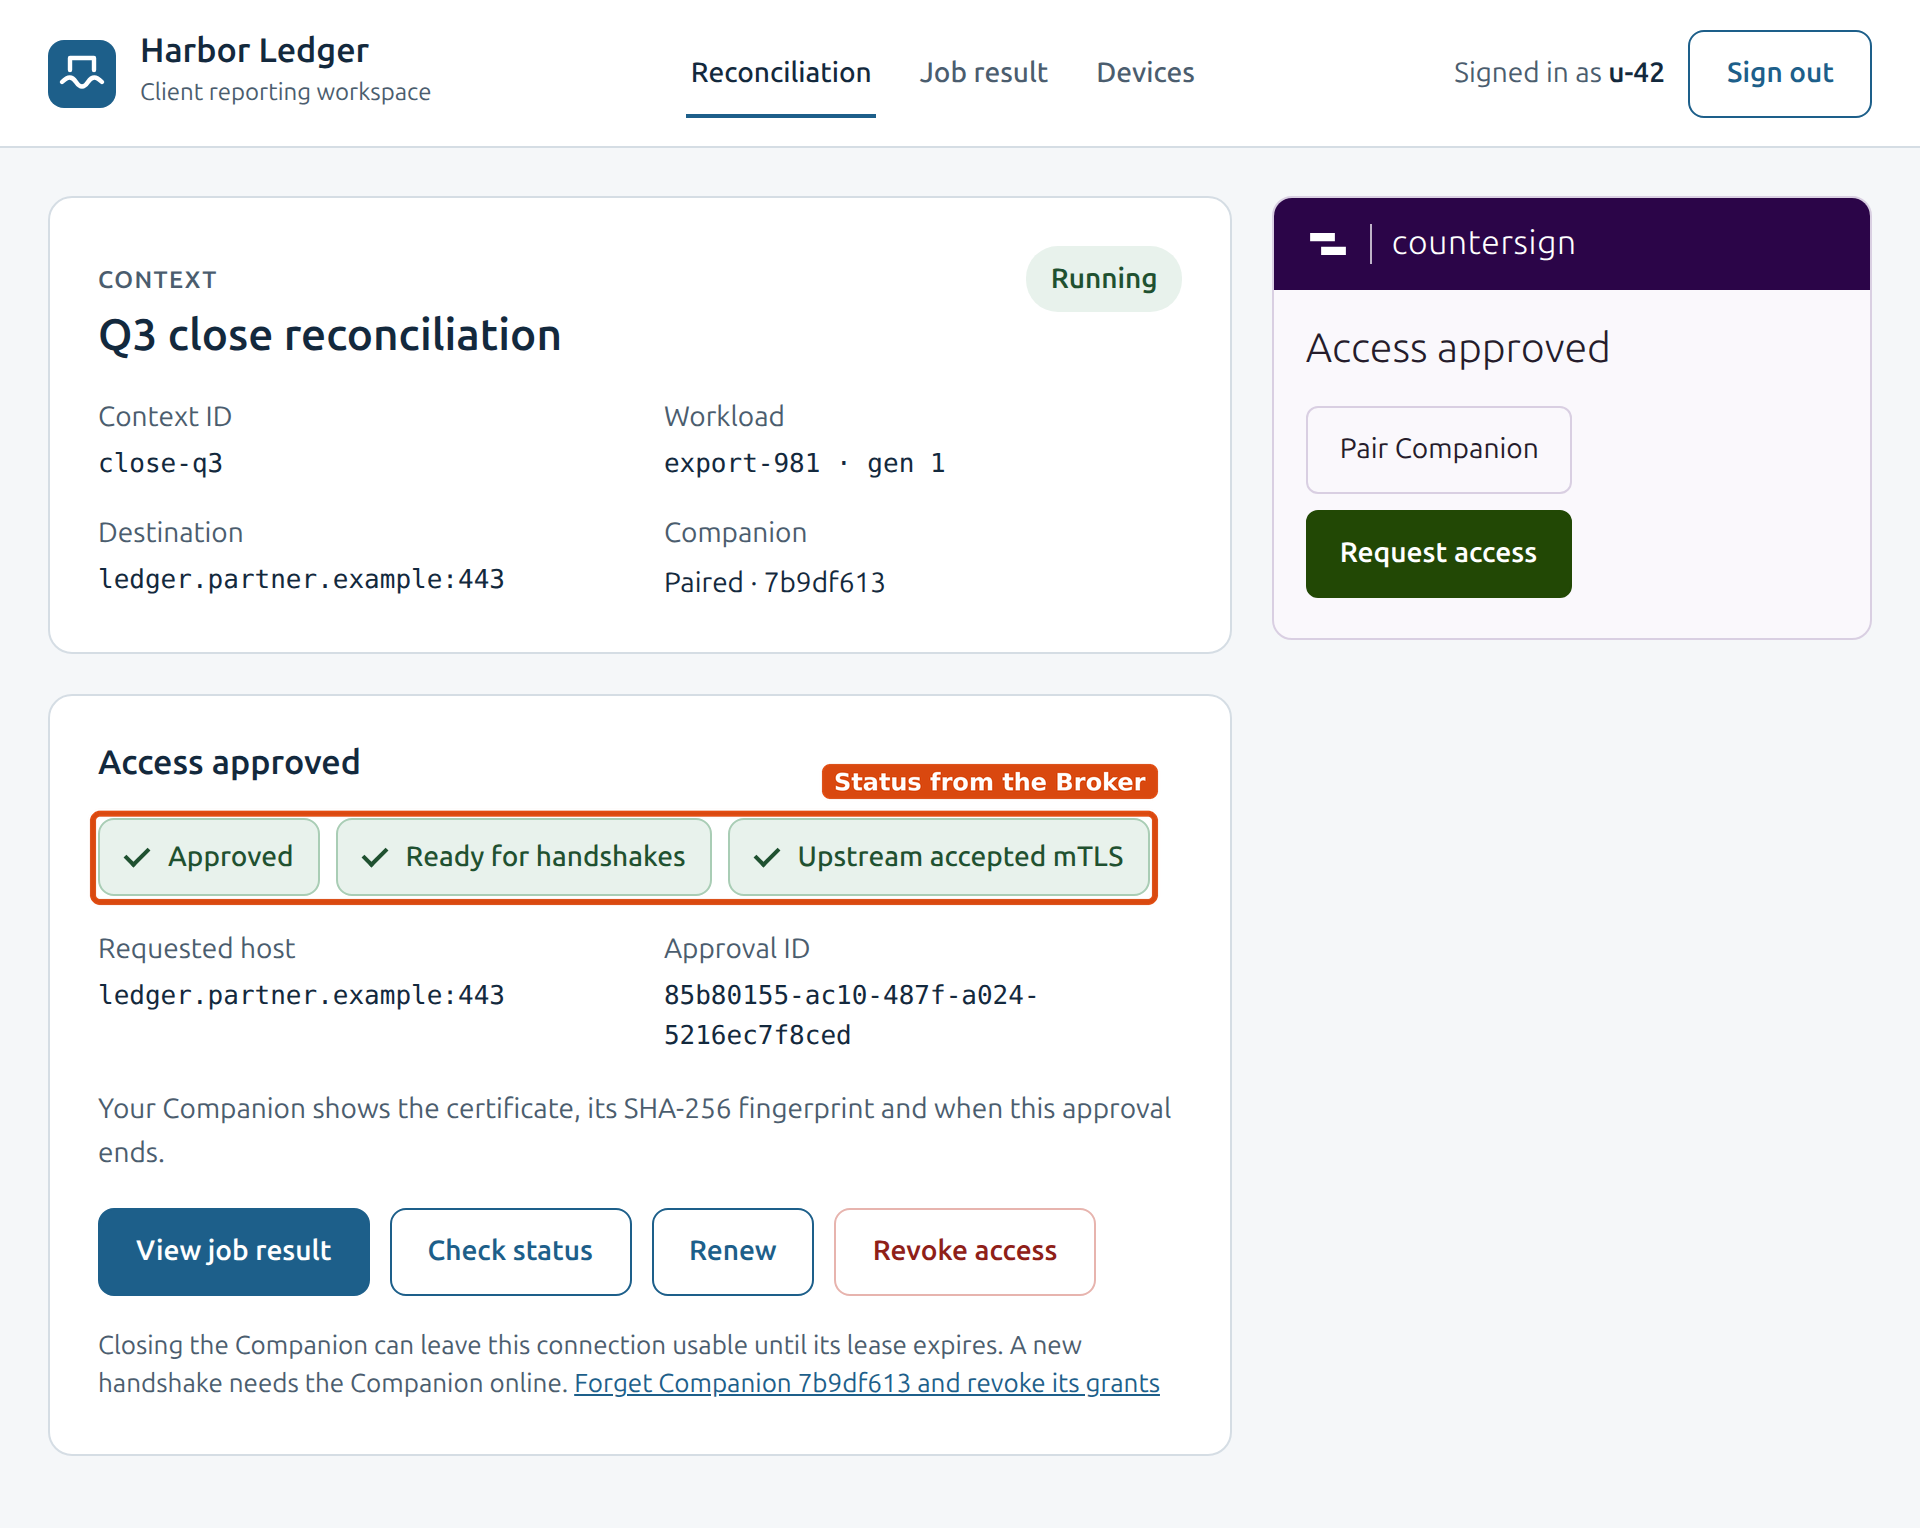
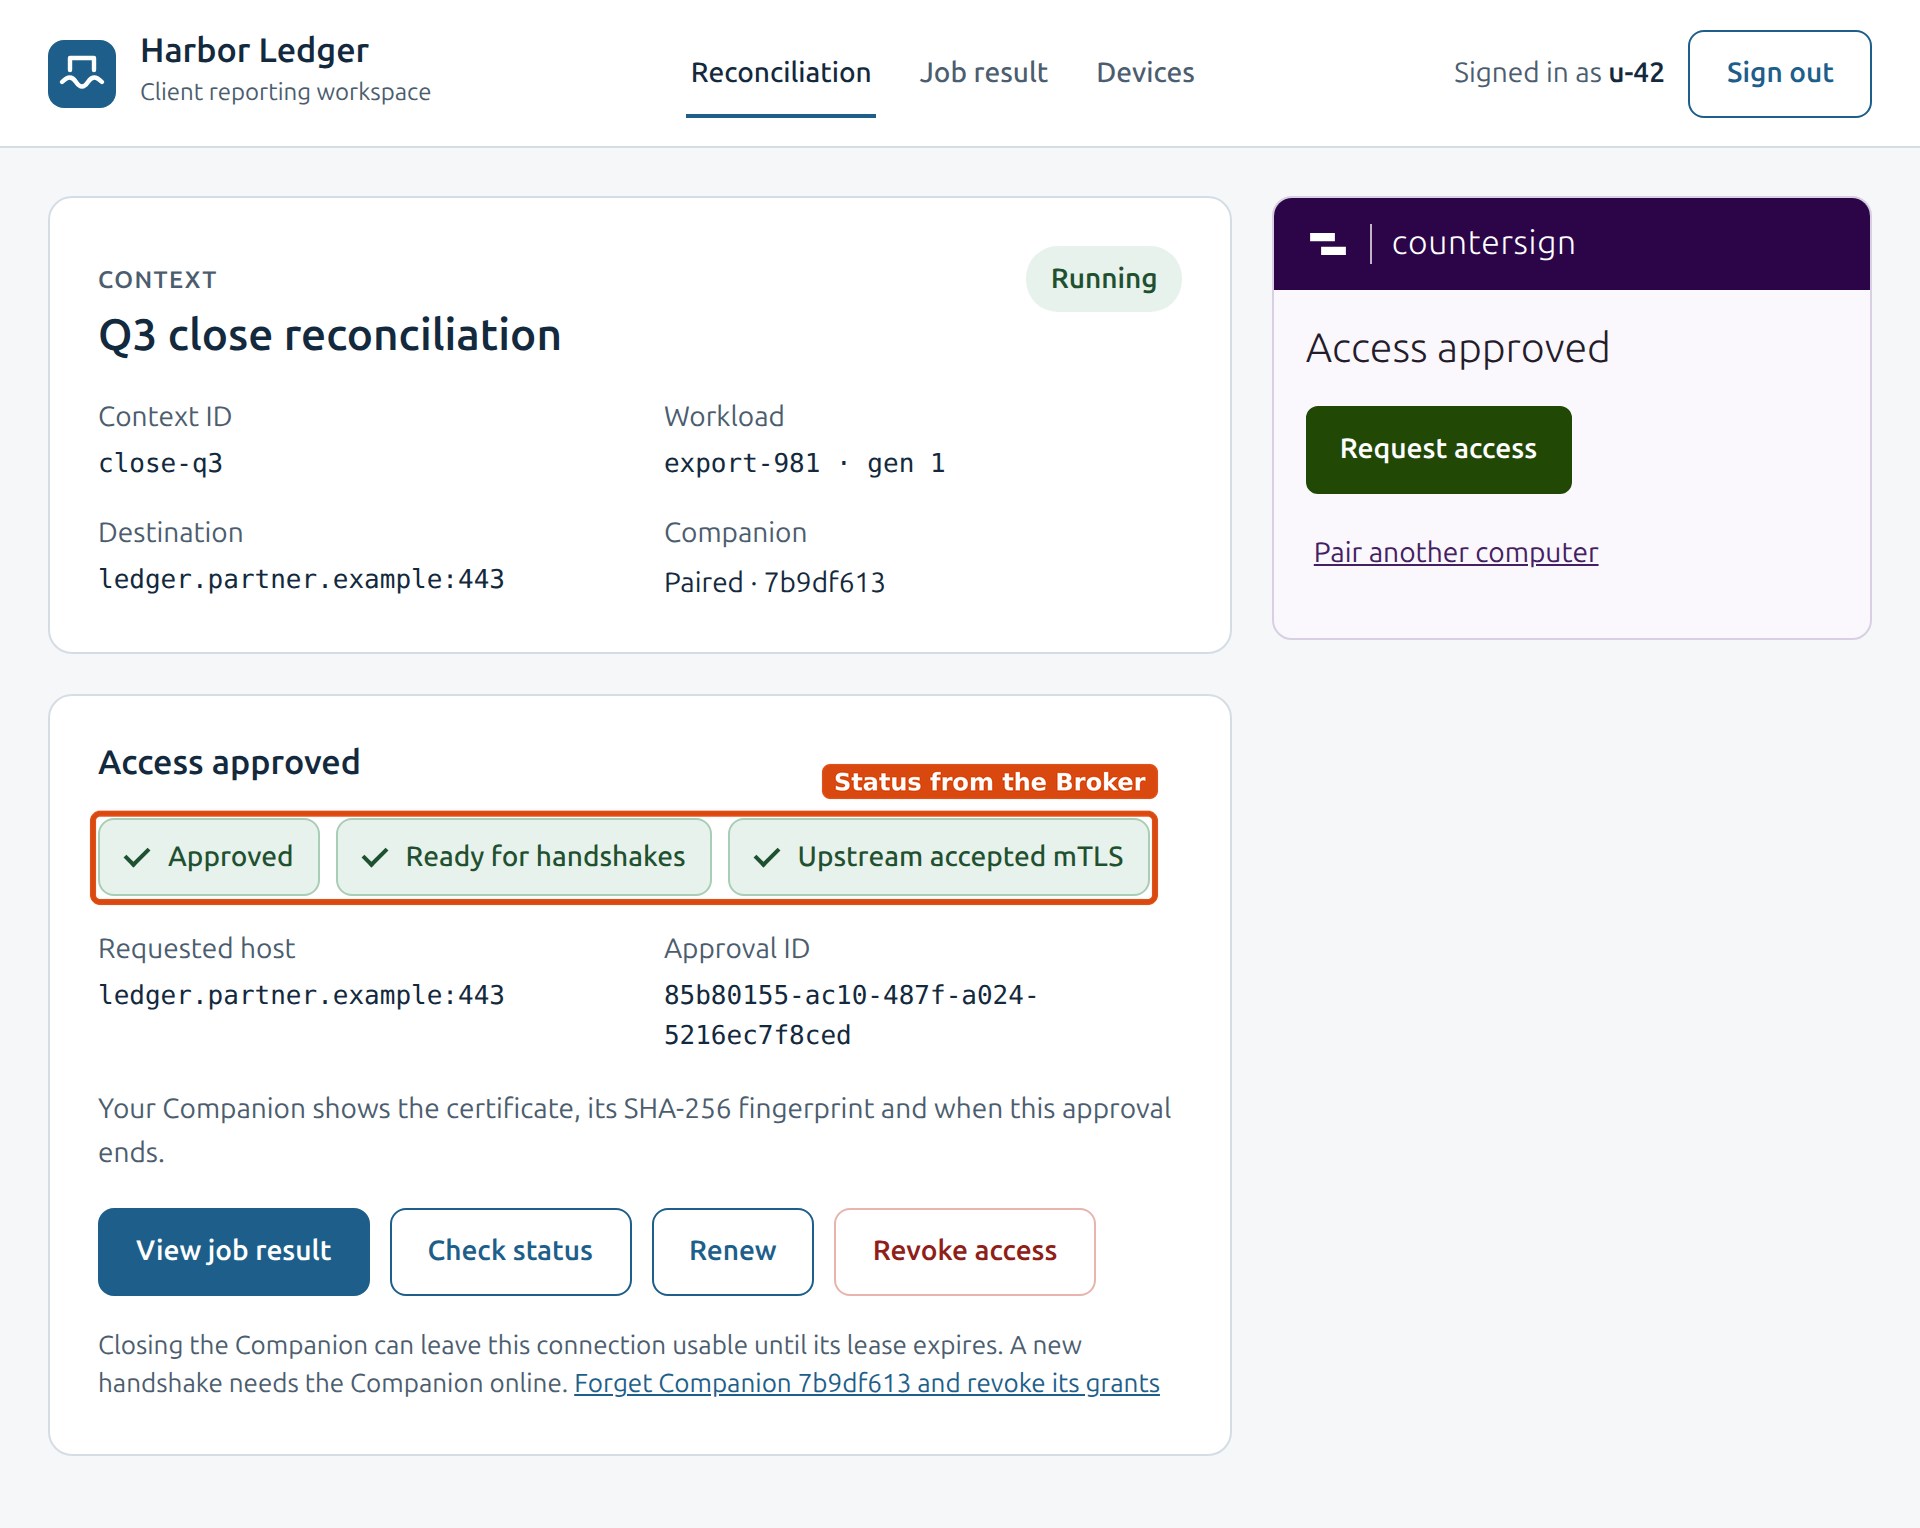
Offer "Pair another computer" once the account is paired
The same account can pair several computers with one Integrator, so a
paired widget keeps pairing available but demotes it to a secondary
link (part `link`) after Request access. Update the widget docs, test
and the screenshots that show a paired widget.

Changed region(s): [[0.6562, 0.2461, 0.8438, 0.3999]]

diff --git a/packages/widget/src/widget.js b/packages/widget/src/widget.js
@@ -33,6 +33,7 @@ const STYLE = `
     background: var(--_surface); color: var(--_ink); cursor: pointer; }
   button[part~=primary] { background: var(--_primary); border-color: var(--_primary); color: var(--_primary-ink); font-weight: 600; }
   button:disabled { cursor: default; opacity: .55; }
+  button[part~=link] { order: 1; min-height: 44px; padding: 0 4px; border: 0; background: none; color: var(--_link); text-decoration: underline; }
   a { display: inline-flex; align-items: center; min-height: 44px; padding: 0 4px; color: var(--_link); }
   button:focus-visible, a:focus-visible { outline: 3px solid var(--_link); outline-offset: 2px; }
   [part=status] { margin: 0; font-size: .9375em; line-height: 1.45; color: var(--_muted); }
@@ -94,7 +95,8 @@ export class CountersignWidget extends HTMLElement {
     this.#renderControls();
   }
 
-  // `paired` moves the primary emphasis from Pair Companion to Request access.
+  // `paired` moves the primary emphasis from Pair Companion to Request access
+  // and turns pairing into a secondary "Pair another computer" link.
   attributeChangedCallback() {
     this.#renderControls();
   }
@@ -139,10 +141,13 @@ export class CountersignWidget extends HTMLElement {
   }
 
   #renderControls() {
-    const primary = this.hasAttribute('paired') ? 'connect' : 'pair';
+    const paired = this.hasAttribute('paired');
+    const primary = paired ? 'connect' : 'pair';
     for (const button of this.shadowRoot.querySelectorAll('button')) {
       const action = button.dataset.action;
-      button.setAttribute('part', 'button ' + action + (action === primary ? ' primary' : ''));
+      const style = action === primary ? ' primary' : action === 'pair' ? ' link' : '';
+      button.setAttribute('part', 'button ' + action + style);
+      if (action === 'pair') button.textContent = paired ? 'Pair another computer' : 'Pair Companion';
       button.disabled = !this.#adapter || this.#busy;
       if (button.dataset.action === 'push') {
         button.hidden = typeof this.#adapter?.subscribe !== 'function';

diff --git a/packages/widget/test/widget.test.js b/packages/widget/test/widget.test.js
@@ -64,11 +64,14 @@ test('default card exposes stylable parts and keeps the original ones', () => {
 test('a paired account moves the primary emphasis to Request access', () => {
   const el = widget(async () => id);
   const part = action => el.shadowRoot.querySelector(`[data-action=${action}]`).getAttribute('part');
+  const pair = el.shadowRoot.querySelector('[data-action=pair]');
   el.setAttribute('paired', '');
-  assert.equal(part('pair'), 'button pair');
+  assert.equal(part('pair'), 'button pair link');
+  assert.equal(pair.textContent, 'Pair another computer');
   assert.equal(part('connect'), 'button connect primary');
   el.removeAttribute('paired');
   assert.equal(part('pair'), 'button pair primary');
+  assert.equal(pair.textContent, 'Pair Companion');
   el.remove();
 });
 

diff --git a/scripts/annotate_screenshots.py b/scripts/annotate_screenshots.py
@@ -66,7 +66,7 @@ CALLOUTS: dict[str, tuple[str, list[tuple[str, ...]]]] = {
         ("progress", "Status from the Broker", "above-end"),
     ]),
     "access-ended.png": ("access-ended.png", [
-        ("again", "Starts a fresh approval", "below-end"),
+        ("again", "Starts a fresh approval", "right"),
     ]),
     "job-result.png": ("job-result.png", [
         ("match", "Same SHA-256 as the approval", "right"),

diff --git a/docs/reference/widget.md b/docs/reference/widget.md
@@ -92,7 +92,7 @@ On logout, remove the subscription through the authenticated backend while the a
 
 ## Style the web controls
 
-By default the widget draws a Countersign card: a purple band with the Countersign mark, a headline, the buttons and a status line. The emphasized button is **Pair Companion** until you add the `paired` attribute, then **Request access**. The stylesheet is a constructed stylesheet in the shadow root, so it also applies under a strict `style-src` Content Security Policy. Its colours follow the page's `color-scheme`: a page that declares `color-scheme: light dark` gets the dark palette in dark mode, and a page that declares nothing stays light.
+By default the widget draws a Countersign card: a purple band with the Countersign mark, a headline, the buttons and a status line. The emphasized button is **Pair Companion** until you add the `paired` attribute, then **Request access**, with pairing offered as a **Pair another computer** link. The stylesheet is a constructed stylesheet in the shadow root, so it also applies under a strict `style-src` Content Security Policy. Its colours follow the page's `color-scheme`: a page that declares `color-scheme: light dark` gets the dark palette in dark mode, and a page that declares nothing stays light.
 
 ```html
 <countersign-widget paired>
@@ -102,7 +102,7 @@ By default the widget draws a Countersign card: a purple band with the Countersi
 
 | Hook | Use |
 | --- | --- |
-| `paired` attribute | Set it when the signed-in account already has a paired Companion. It moves the primary emphasis to **Request access**. |
+| `paired` attribute | Set it when the signed-in account already has a paired Companion. It moves the primary emphasis to **Request access** and turns **Pair Companion** into a secondary **Pair another computer** link, since the same account can pair more than one computer. |
 | `headline` slot | Replaces the default headline, “Approve with your desktop”. Use it for state only your page knows, such as pending or ended access. |
 | `--countersign-font` | Font family for the whole card. |
 | `--countersign-accent` | Colour of the **Open Companion** link and focus rings. |
@@ -110,7 +110,7 @@ By default the widget draws a Countersign card: a purple band with the Countersi
 | `--countersign-surface`, `--countersign-line`, `--countersign-ink`, `--countersign-muted` | Card background, borders, text and status text. |
 | `--countersign-primary`, `--countersign-primary-ink` | Background and text of the emphasized button. |
 
-Shadow parts let page styles replace any rule. `card`, `header`, `mark`, `wordmark`, `body`, `headline`, `actions`, `status` and `launch` (the **Open Companion** link) name the regions. Every button has the part `button` plus `pair`, `connect` or `push`, and the emphasized one also has `primary`.
+Shadow parts let page styles replace any rule. `card`, `header`, `mark`, `wordmark`, `body`, `headline`, `actions`, `status` and `launch` (the **Open Companion** link) name the regions. Every button has the part `button` plus `pair`, `connect` or `push`. The emphasized one also has `primary`, and the **Pair another computer** link of a paired widget has `link`.
 
 ```css
 countersign-widget {

diff --git a/docs/integrate.md b/docs/integrate.md
@@ -64,7 +64,7 @@ const { id, state } = await brokerPost("requests", {
 
 Return the approval ID to the page. An explicit request joins a matching pending approval or returns its current approved record. After denial, cancellation or expiry, an explicit request starts a fresh approval. If the original CONNECT timed out, the Workload must deliberately issue another request after approval. [Widget adapter and notification handlers](reference/widget.md)
 
-![The demo Integrator's page beside the Countersign widget, which shows Pair Companion, Request access and an Open Companion link for the pending request.](assets/screenshots/widget.png#gh-light-mode-only)![The demo Integrator's page beside the Countersign widget, which shows Pair Companion, Request access and an Open Companion link for the pending request.](assets/screenshots/widget-dark.png#gh-dark-mode-only)
+![The demo Integrator's page beside the Countersign widget, which shows Request access, an Open Companion link for the pending request and a Pair another computer link.](assets/screenshots/widget.png#gh-light-mode-only)![The demo Integrator's page beside the Countersign widget, which shows Request access, an Open Companion link for the pending request and a Pair another computer link.](assets/screenshots/widget-dark.png#gh-dark-mode-only)
 
 The widget draws only the pairing, request and launch controls in its own Countersign card. Your page explains the job, the pairing and what happens next. [Restyle the widget](reference/widget.md#style-the-web-controls)
 

diff --git a/packages/widget/README.md b/packages/widget/README.md
@@ -8,6 +8,6 @@ npm install @zeroae/countersign-widget
 
 Import `@zeroae/countersign-widget` to register the `<countersign-widget>` element. Set its `adapter` property to connect it to your backend. The service worker entry point exports `installPushHandlers` for Web Push notifications.
 
-The element renders a Countersign card with a purple header band and its own buttons. It follows the page's `color-scheme` and works under a strict Content Security Policy. Restyle it with `--countersign-*` custom properties and shadow parts such as `::part(card)`, `::part(button)` and `::part(primary)`. Add the `paired` attribute once the account has a paired Companion, and put page-specific text in the `headline` slot.
+The element renders a Countersign card with a purple header band and its own buttons. It follows the page's `color-scheme` and works under a strict Content Security Policy. Restyle it with `--countersign-*` custom properties and shadow parts such as `::part(card)`, `::part(button)` and `::part(primary)`. Add the `paired` attribute once the account has a paired Companion (pairing then becomes a secondary "Pair another computer" link; style it with `::part(link)`), and put page-specific text in the `headline` slot.
 
 [Widget and adapter reference](https://zeroae.github.io/countersign/reference/widget/) · [Styling hooks](https://zeroae.github.io/countersign/reference/widget/#style-the-web-controls) · [Demo Integrator](https://github.com/zeroae/countersign/tree/main/examples/demo-integrator)
